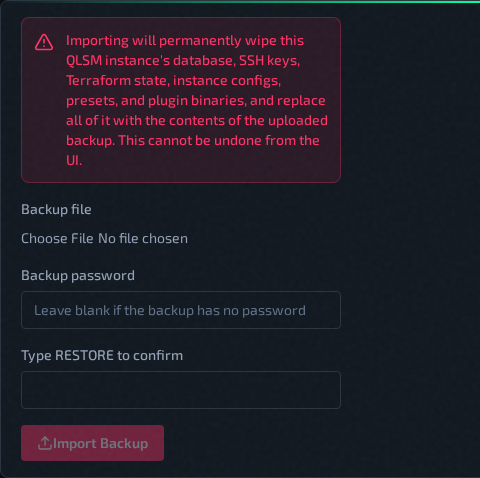
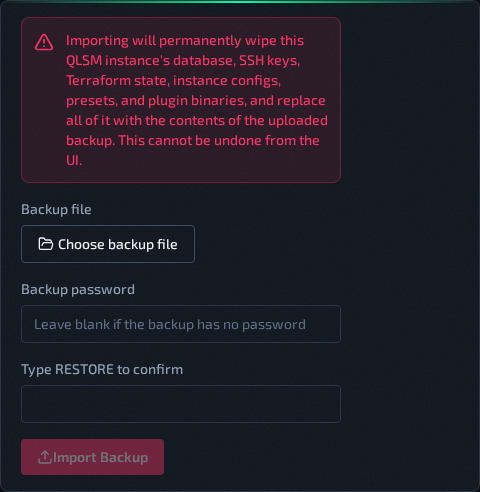
Restore backup: make the file picker a real button (#172)
* Restore backup: make the file picker a real button

The "Backup file" control was a bare native <input type="file">, relying
on the browser's default styling instead of the app's own button system.
Hide the input and trigger it from a real <button>, matching the pattern
already used by PresetImportPanel — shows "Choose backup file" until a
file is picked, then the filename.

Also regenerates the docs screenshot for this panel.

* ci: pin frontend job to pnpm@10 instead of @latest

pnpm@latest currently resolves to 11.20.0, which requires Node >=22.13
and imports node:sqlite at startup. The frontend job pins Node to 20,
so every run was failing immediately with ERR_UNKNOWN_BUILTIN_MODULE
before installing dependencies. Pin to pnpm@10 to match the version
already used locally (10.11.0).

* fix: resolve pre-existing frontend lint errors

Never caught before because the CI frontend job never got past
dependency install until the previous commit fixed that.

- HookRow.jsx: remove unused timeAgo() (no callers)
- test/setup.js: global -> globalThis (no-undef; globalThis needs no
  eslint env config)
- resourceValidation.js: the escaped hyphen in HOST_NAME_PATTERN is
  intentional (see existing comment) -- silence no-useless-escape
  instead of removing it
- eslint.config.js: ignore frontend-react/playwright/, a gitignored,
  not-checked-out-in-CI directory that only trips lint locally

* ci: set SECRET_KEY for the pytest job
[…]

diff --git a/frontend-react/src/components/backup/ImportBackupPanel.jsx b/frontend-react/src/components/backup/ImportBackupPanel.jsx
@@ -1,5 +1,5 @@
-import React, { useState } from 'react';
-import { AlertTriangle, Loader2, Upload } from 'lucide-react';
+import React, { useRef, useState } from 'react';
+import { AlertTriangle, FolderOpen, Loader2, Upload } from 'lucide-react';
 import { importBackup } from '../../services/api';
 import { useNotification } from '../NotificationProvider';
 import { CURRENT_VERSION } from '../../utils/versioning';
@@ -8,6 +8,7 @@ const CONFIRM_PHRASE = 'RESTORE';
 const labelClass = 'block text-sm font-medium text-theme-secondary mb-1.5';
 
 function ImportBackupPanel() {
+  const fileInputRef = useRef(null);
   const [file, setFile] = useState(null);
   const [password, setPassword] = useState('');
   const [confirmText, setConfirmText] = useState('');
@@ -30,6 +31,7 @@ function ImportBackupPanel() {
       setFile(null);
       setPassword('');
       setConfirmText('');
+      if (fileInputRef.current) fileInputRef.current.value = '';
     } catch (err) {
       showError(err.error?.message || 'Failed to import backup.');
     } finally {
@@ -53,12 +55,21 @@ function ImportBackupPanel() {
         <div>
           <label htmlFor="backup-file" className={labelClass}>Backup file</label>
           <input
+            ref={fileInputRef}
             id="backup-file"
             type="file"
             accept=".qlsmbak"
             onChange={(e) => setFile(e.target.files?.[0] || null)}
-            className="text-sm text-theme-secondary"
+            className="hidden"
           />
+          <button
+            type="button"
+            onClick={() => fileInputRef.current?.click()}
+            className="btn btn-secondary"
+          >
+            <FolderOpen size={16} strokeWidth={2} className="mr-1" aria-hidden="true" />
+            <span>{file ? file.name : 'Choose backup file'}</span>
+          </button>
         </div>
 
         <div>

diff --git a/frontend-react/src/components/instances/HookRow.jsx b/frontend-react/src/components/instances/HookRow.jsx
@@ -17,16 +17,6 @@ function formatSize(bytes) {
   return `${(bytes / 1024 / 1024).toFixed(1)} MB`;
 }
 
-function timeAgo(ts) {
-  if (!ts) return null;
-  const secs = Math.floor(Date.now() / 1000) - ts;
-  if (secs < 60) return 'just now';
-  if (secs < 3600) return `${Math.floor(secs / 60)}m ago`;
-  if (secs < 86400) return `${Math.floor(secs / 3600)}h ago`;
-  if (secs < 86400 * 30) return `${Math.floor(secs / 86400)}d ago`;
-  return `${Math.floor(secs / (86400 * 30))}mo ago`;
-}
-
 function FilenameCell({ filename }) {
   const dot = filename.lastIndexOf('.');
   const base = dot > 0 ? filename.slice(0, dot) : filename;

diff --git a/frontend-react/src/utils/resourceValidation.js b/frontend-react/src/utils/resourceValidation.js
@@ -4,6 +4,7 @@ export const INSTANCE_NAME_MAX_LENGTH = 40;
 // Hyphens are escaped (\-) so the source stays valid when used as an HTML
 // `pattern` attribute, which browsers now compile with the `v` (unicodeSets)
 // flag — an unescaped trailing hyphen throws "Invalid character class".
+// eslint-disable-next-line no-useless-escape -- see comment above: the escape is required for the HTML pattern attribute
 export const HOST_NAME_PATTERN = /^[a-zA-Z0-9]([a-zA-Z0-9\-]*[a-zA-Z0-9])?$/;
 // Instance names also allow spaces (unlike host names)
 export const INSTANCE_NAME_PATTERN = /^[a-zA-Z0-9]([a-zA-Z0-9\- ]*[a-zA-Z0-9])?$/;

diff --git a/frontend-react/eslint.config.js b/frontend-react/eslint.config.js
@@ -4,7 +4,7 @@ import reactHooks from 'eslint-plugin-react-hooks'
 import reactRefresh from 'eslint-plugin-react-refresh'
 
 export default [
-  { ignores: ['dist'] },
+  { ignores: ['dist', 'playwright'] },
   {
     files: ['**/*.{js,jsx}'],
     languageOptions: {

diff --git a/frontend-react/src/test/setup.js b/frontend-react/src/test/setup.js
@@ -1,6 +1,6 @@
 import '@testing-library/jest-dom';
 
-global.ResizeObserver = class ResizeObserver {
+globalThis.ResizeObserver = class ResizeObserver {
   observe() {}
   unobserve() {}
   disconnect() {}
